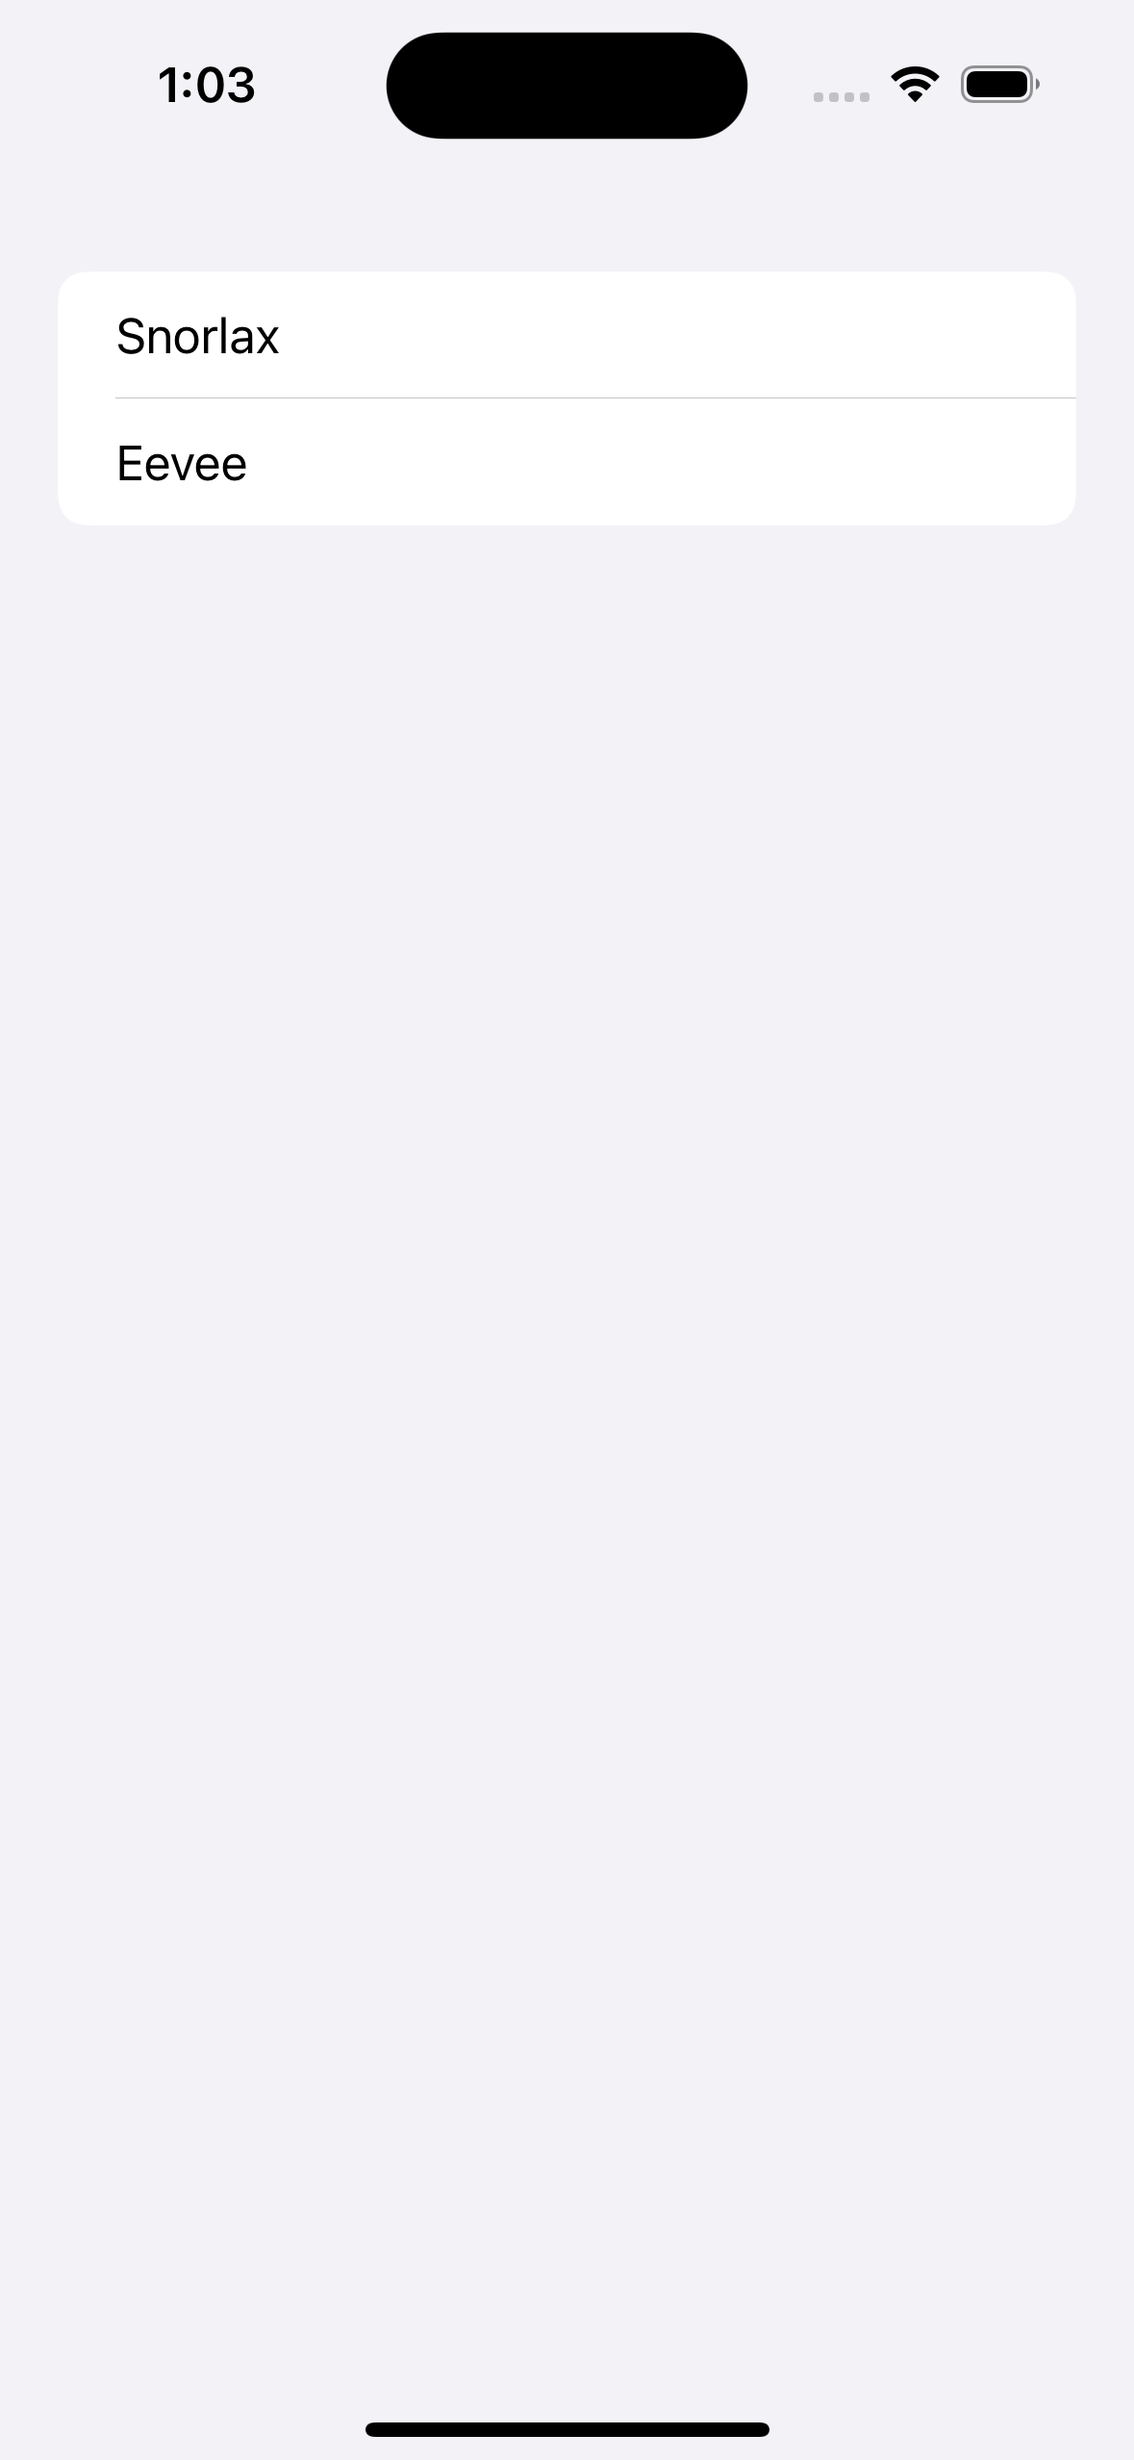
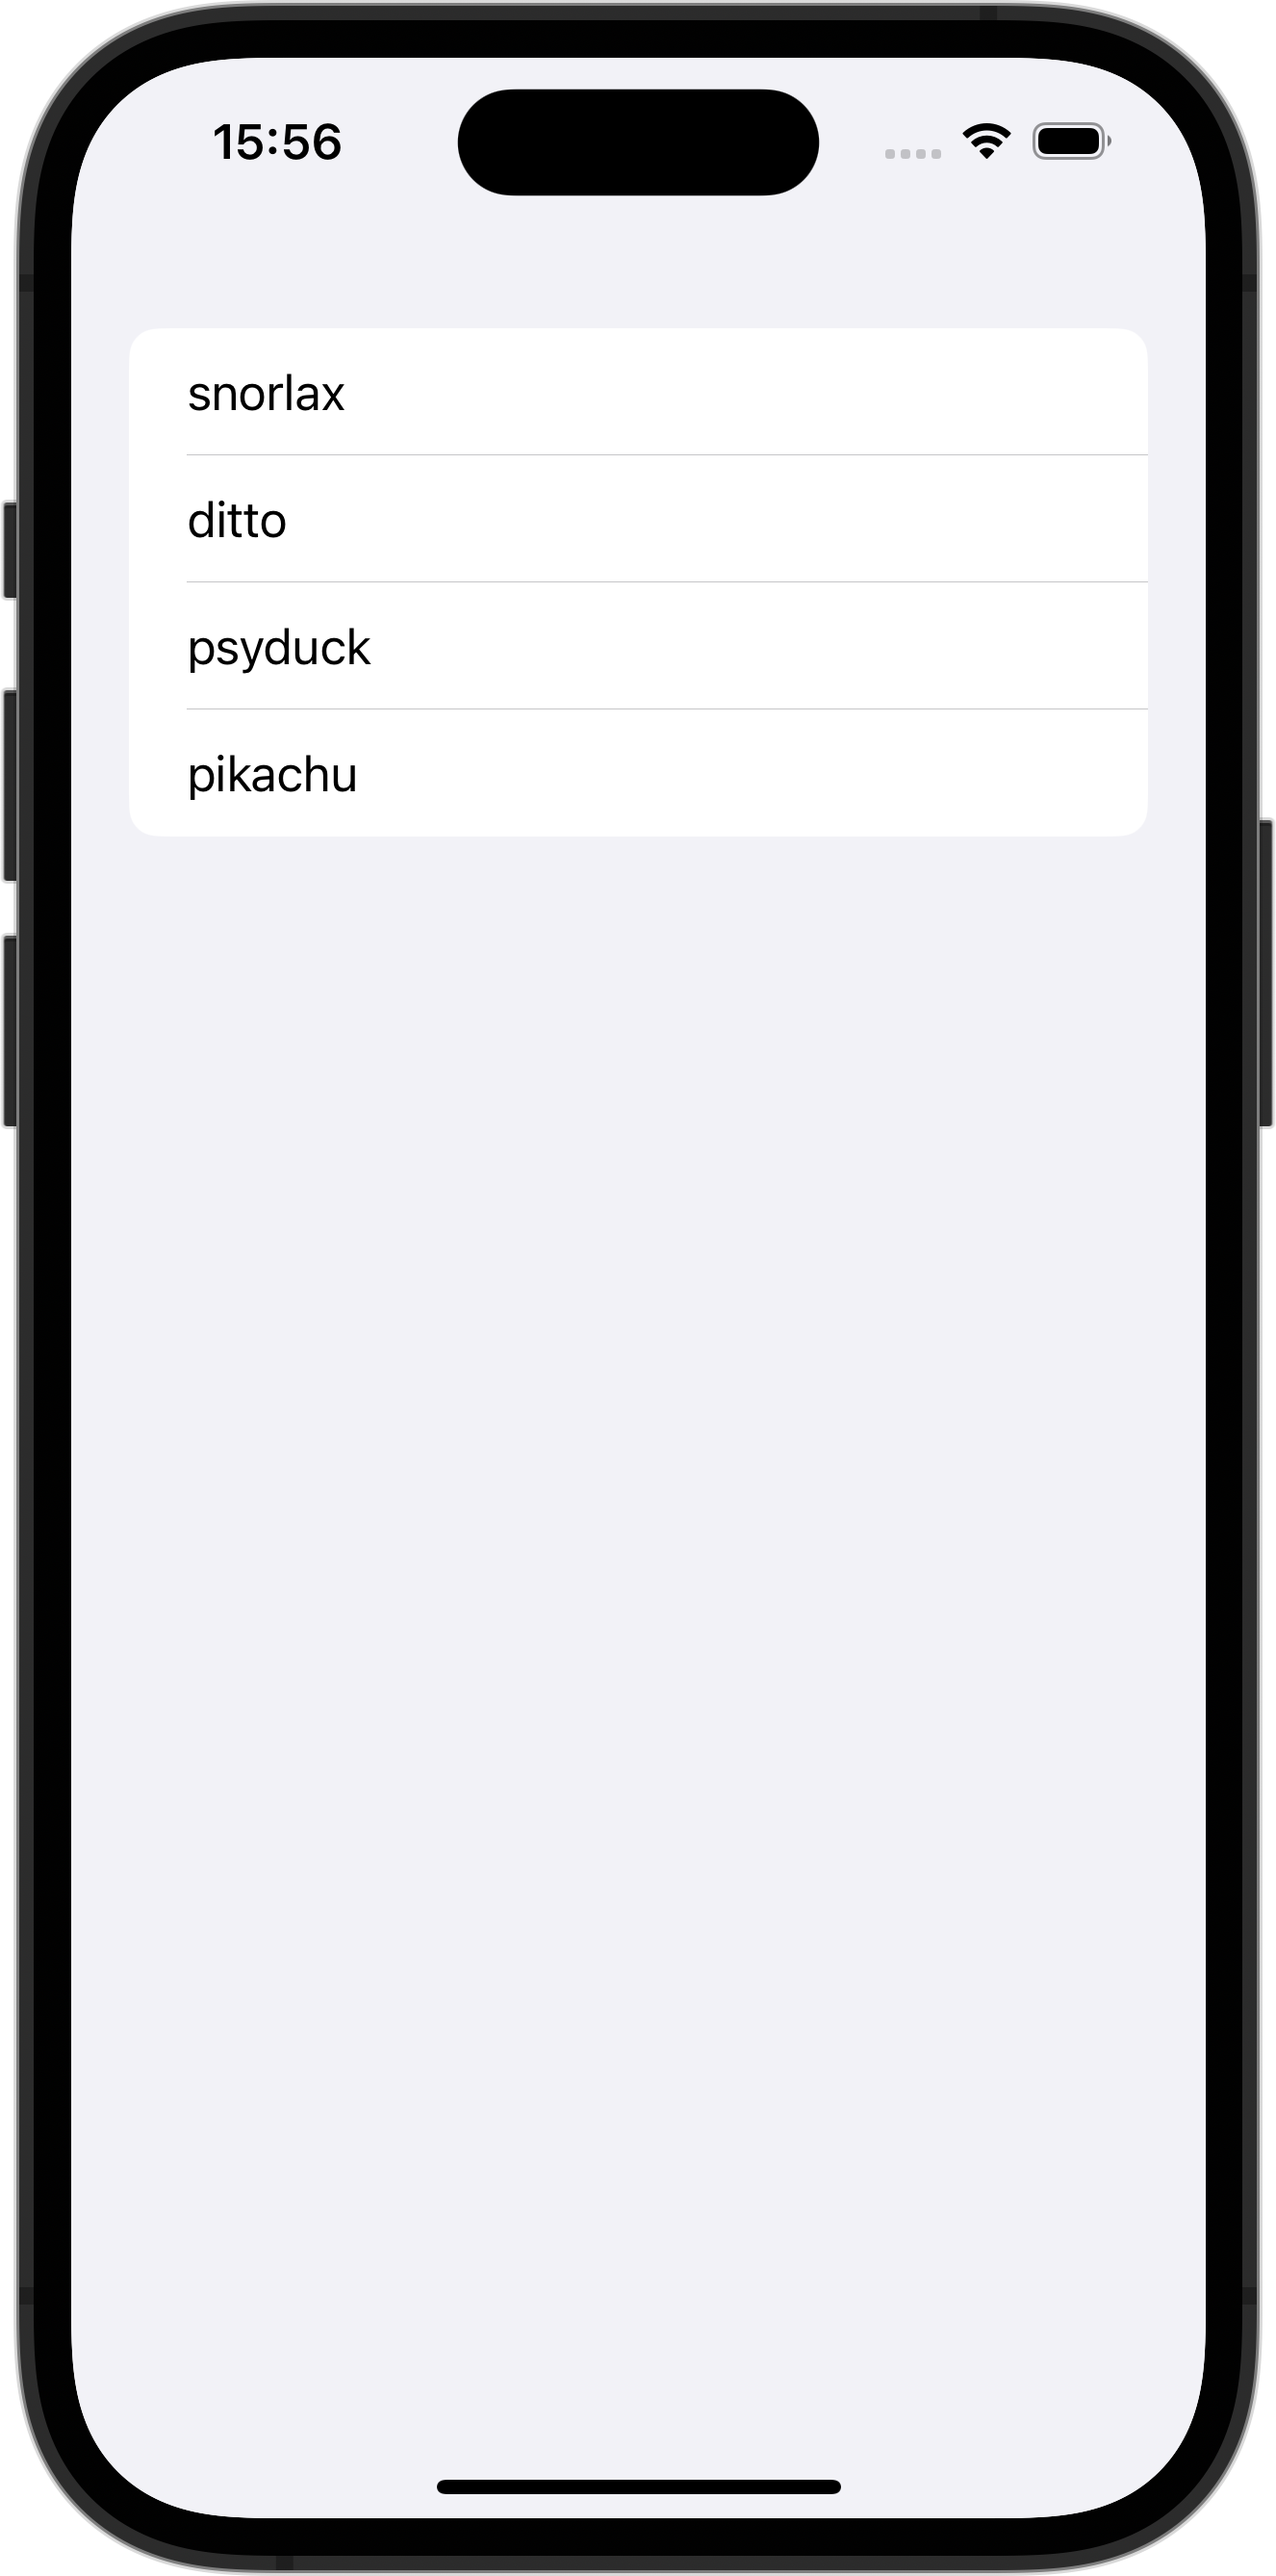
記事を修正

Changed region(s): [[0.0, 0.0, 1.0, 1.0], [0.0916, 0.1236, 0.2443, 0.2164], [0.1527, 0.2473, 0.3053, 0.3091]]

diff --git a/Articles/2023-12-25/ContentView.swift b/Articles/2023-12-25/ContentView.swift
@@ -1,1 +1,16 @@
-import Foundation
+import SwiftUI
+
+struct ContentView: View {
+    let pokemons: [Pokemon] = [
+        Pokemon(name: "snorlax", type: "normal"),
+        Pokemon(name: "ditto", type: "normal"),
+        Pokemon(name: "psyduck", type: "water"),
+        Pokemon(name: "pikachu", type: "electric"),
+    ]
+    
+    var body: some View {
+        List(pokemons, id: \.name) { pokemon in
+            Text("\(pokemon.name)")
+        }
+    }
+}

diff --git a/Articles/Memo.md b/Articles/Memo.md
@@ -402,6 +402,9 @@ ffmpeg -i 2023-12-24/2023-12-24.mp4 -vf pad=w=iw+148:h=ih+120:x=85:y=70:color=wh
 ffmpeg -i 2023-12-24/movie-padding.mp4 -i phone-frame.png -filter_complex overlay=10:10 2023-12-24/movie-frame.mp4
 ffmpeg -i 2023-12-24/movie-frame.mp4 -crf 35 -vf scale=400:-1 2023-12-24/2023-12-24.gif
 
+# 2023-12-25
+convert -size 1326x2676 xc:none 2023-12-25/image.png -geometry +74+59 -composite phone-frame.png -geometry +0+0 -composite 2023-12-25/2023-12-25.png
+
 # 2023-12-26
 ffmpeg -i 2023-12-26/2023-12-26.mp4 -vf pad=w=iw+148:h=ih+120:x=85:y=70:color=white 2023-12-26/movie-padding.mp4
 ffmpeg -i 2023-12-26/movie-padding.mp4 -i phone-frame.png -filter_complex overlay=10:10 2023-12-26/movie-frame.mp4
